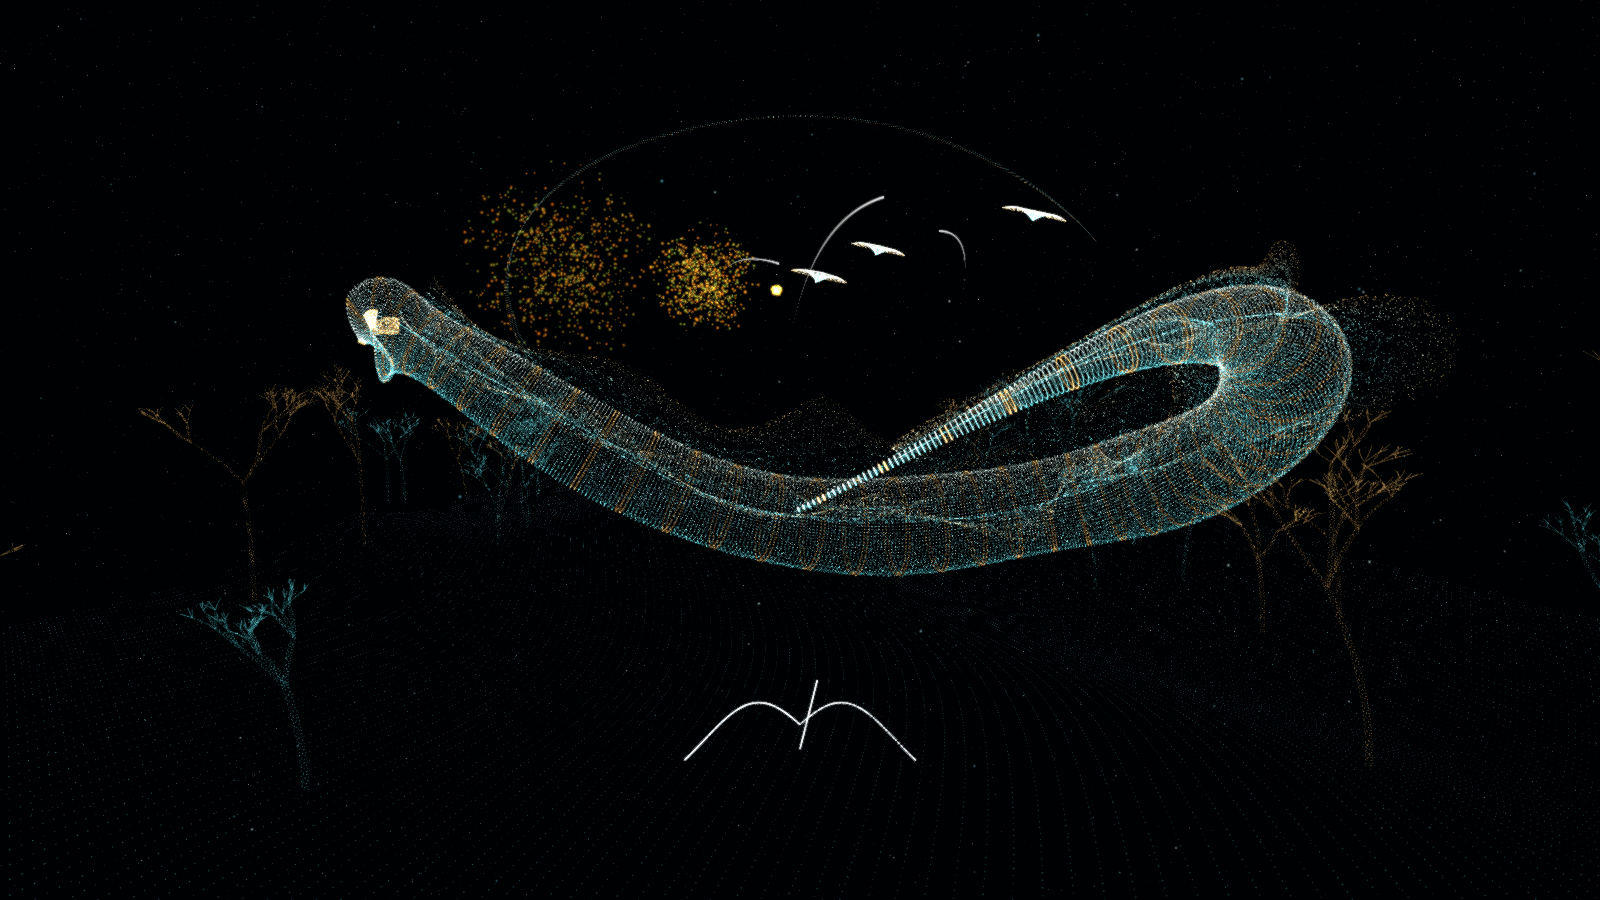
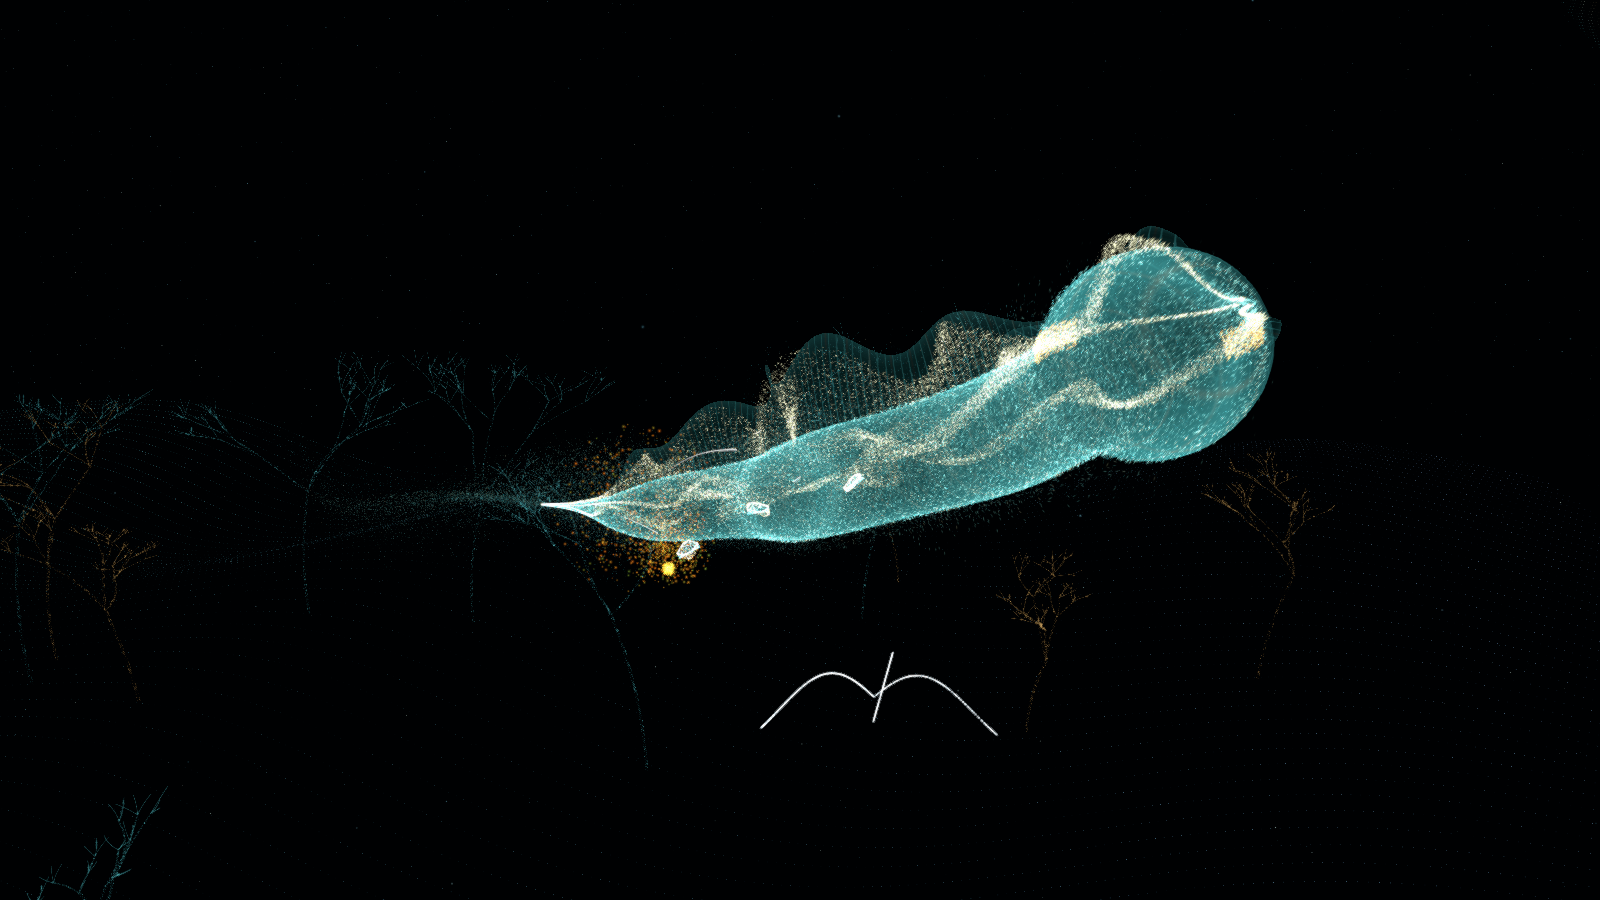
自由飛行による追跡戦の実機検証と操作・設計記録を追加
通常操作と同じ飛行APIと画面座標ロックで海蛇を追跡する自動検証へ変更。移動量、向き保持、急旋回カメラ、背景座標不変、射程と保持ロック、GPUシミュレーションを検査し、消滅後の暗い画面は戦闘中とは別の判定で確認する。

Unity 6000.3.13f1のWindows実機で全編クリア、1365.89mの飛行、340発全命中、ボス240点、音楽予約誤差0.000001ms未満、例外0を確認。最終カメラ補正後の短時間検証も合格。実画像、操作方法、専用Compute Shader採用理由、検証の未保証範囲を記録した。

diff --git a/Liminal/Assets/Liminal/Runtime/RuntimeProof.cs b/Liminal/Assets/Liminal/Runtime/RuntimeProof.cs
@@ -25,6 +25,9 @@ namespace Liminal
         bool pausePassed;
         readonly List<float> litFractions=new();
         readonly List<float> renderAndReadbackMs=new();
+        bool spatialPassed;
+        float flightDistance;
+        Vector3 lastPlayerPosition;
         public void Initialize(Experience value)
         {
             experience=value;
@@ -35,6 +38,8 @@ namespace Liminal
             preview=Array.IndexOf(args,"--preview")>=0;
             wallStart=Time.realtimeSinceStartup;
             Application.logMessageReceived+=OnLog;
+            spatialPassed=VerifySpatialContracts();
+            lastPlayerPosition=experience.Flight.Position;
         }
         void OnLog(string message,string stack,LogType type)
         {
@@ -45,6 +50,9 @@ namespace Liminal
             if(!experience||!experience.Ready||finishing) return;
             float t=(float)experience.Music.Time;
             var e=experience.Combat;
+            if(!experience.Music.Paused) Pilot(t,Mathf.Min(Time.unscaledDeltaTime,0.05f));
+            flightDistance+=Vector3.Distance(lastPlayerPosition,experience.Flight.Position);
+            lastPlayerPosition=experience.Flight.Position;
             if(!sections.Contains(e.Section)) sections.Add(e.Section);
             if(t>5) frames.Add(Time.unscaledDeltaTime);
             if(!pausedTest && t>2) {
@@ -77,7 +85,7 @@ namespace Liminal
         {
             yield return new WaitForSecondsRealtime(0.1f);
             File.WriteAllText(Path.Combine(directory,"preview.json"),JsonUtility.ToJson(new Preview {
-                errors=errors.ToArray(),hits=experience.Combat.Hits,damage=experience.Combat.BossDamage,
+                errors=errors.ToArray(),spatialPassed=spatialPassed,flightDistance=flightDistance,hits=experience.Combat.Hits,damage=experience.Combat.BossDamage,
                 particles=experience.World.ParticleCount,renderAndReadbackMs=renderAndReadbackMs.ToArray()},true));
             Application.Quit(errors.Count==0?0:2);
         }
@@ -89,7 +97,8 @@ namespace Liminal
             bool victory=e.Won;
             int hits=e.Hits,damage=e.BossDamage,fired=e.Fired,locks=e.MaxLocks,points=e.Points;
             double impactDelay=e.MaxImpactDelay,gridError=experience.Music.MaxGridError;
-            int damageTaken=e.DamageTaken;
+            int damageTaken=e.DamageTaken,simulationSteps=experience.World.Serpent.SimulationSteps;
+            int missed=e.MissedScheduledHits,cancelled=e.CancelledAfterFinish;
             experience.Restart();
             bool restart=e.Points==0&&e.Hits==0&&!e.Ended&&!e.HasPending&&e.Locks.Count==0&&experience.Music.Time<0.05;
             for(int i=0;i<8;i++) e.ReceiveDamage();
@@ -97,10 +106,11 @@ namespace Liminal
             bool failure=e.Lost&&!e.Won;
             experience.Restart();
             yield return new WaitForSecondsRealtime(0.1f);
-            bool rendered=litFractions.Count>=4&&litFractions.All(x=>x>0.002f&&x<0.7f);
-            bool passed=victory&&restart&&failure&&pausePassed&&rendered&&damage==240&&locks==8&&errors.Count==0&&gridError<0.00001&&impactDelay<0.1;
+            bool rendered=litFractions.Count>=5&&litFractions.Take(4).All(x=>x>0.002f&&x<0.7f);
+            bool dissolved=litFractions.Count>=5&&litFractions[4]>0.0001f&&litFractions[4]<litFractions.Take(4).Min()*0.5f;
+            bool passed=victory&&restart&&failure&&pausePassed&&rendered&&dissolved&&spatialPassed&&flightDistance>300&&simulationSteps>500&&damage==240&&locks==8&&missed==0&&fired==hits+cancelled&&errors.Count==0&&gridError<0.00001&&impactDelay<0.1;
             var report=new Report {
-                passed=passed,won=victory,restart=restart,failure=failure,pause=pausePassed,rendered=rendered,litFractions=litFractions.ToArray(),
+                passed=passed,won=victory,restart=restart,failure=failure,pause=pausePassed,rendered=rendered,dissolved=dissolved,spatialPassed=spatialPassed,flightDistance=flightDistance,simulationSteps=simulationSteps,missedScheduledHits=missed,cancelledAfterFinish=cancelled,litFractions=litFractions.ToArray(),
                 hits=hits,fired=fired,bossDamage=damage,maxLocks=locks,score=points,damageTaken=damageTaken,
                 scheduledGridErrorMs=gridError*1000,maxVisualImpactDelayMs=impactDelay*1000,
                 logicUpdatesPerSecond=frames.Count/frames.Sum(),renderAndReadbackMs=renderAndReadbackMs.ToArray(),
@@ -129,13 +139,70 @@ namespace Liminal
             File.WriteAllBytes(Path.Combine(directory,name),image.EncodeToPNG());
             Destroy(image);rt.Release();Destroy(rt);
         }
-        [Serializable] sealed class Preview {public int hits,damage,particles;public float[] renderAndReadbackMs;public string[] errors;}
+        void Pilot(float song,float dt)
+        {
+            var flight=experience.Flight;
+            Vector3 focus=Anatomy.Focus(song);
+            Vector3 desired=focus+new Vector3(Mathf.Cos(song*.025f)*52,15,Mathf.Sin(song*.025f)*52);
+            Vector3 toward=focus-flight.Position;
+            Vector3 forward=flight.View.transform.forward;
+            float yaw=Mathf.Atan2(forward.x,forward.z)*Mathf.Rad2Deg;
+            float pitch=Mathf.Asin(Mathf.Clamp(forward.y,-1,1))*Mathf.Rad2Deg;
+            float targetYaw=Mathf.Atan2(toward.x,toward.z)*Mathf.Rad2Deg;
+            float targetPitch=Mathf.Atan2(toward.y,new Vector2(toward.x,toward.z).magnitude)*Mathf.Rad2Deg;
+            float blend=1-Mathf.Exp(-dt*3);
+            Vector2 look=new(Mathf.DeltaAngle(yaw,targetYaw)*blend/2.1f,(targetPitch-pitch)*blend/1.7f);
+            Vector3 motion=Vector3.ClampMagnitude((desired-flight.Position)/24,1);
+            Vector3 local=new(Vector3.Dot(motion,flight.View.transform.right),motion.y,Vector3.Dot(motion,flight.View.transform.forward));
+            flight.Step(song,dt,local,look,Vector3.Distance(desired,flight.Position)>90);
+        }
+        bool VerifySpatialContracts()
+        {
+            var flight=experience.Flight;
+            Vector3 worldOrigin=experience.World.transform.position;
+            Vector3 start=Anatomy.Focus(0);
+            flight.SetPose(start,Quaternion.identity);
+            for(int i=0;i<360;i++) flight.Step(0,1f/60,Vector3.forward,Vector2.zero,true);
+            bool freedom=Vector3.Distance(start,flight.Position)>220;
+            bool cameraBehind=Vector3.Dot(flight.Position-flight.View.transform.position,flight.View.transform.forward)>5;
+            bool stableWorld=Vector3.Distance(worldOrigin,experience.World.transform.position)<0.001f;
+            flight.SetPose(start,Quaternion.identity);
+            flight.Step(0,1f/60,Vector3.zero,new Vector2(180/2.1f,0),false);
+            bool turnCamera=Vector3.Dot(flight.Position-flight.View.transform.position,flight.View.transform.forward)>=6.99f;
+            flight.SetPose(start,Quaternion.identity);
+            flight.Step(0,1f/60,Vector3.zero,new Vector2(130/2.1f,30/1.7f),false);
+            Quaternion orientation=flight.View.transform.rotation;
+            for(int i=0;i<300;i++) flight.Step(0,1f/60,Vector3.zero,Vector2.zero,false);
+            bool heading=Quaternion.Angle(orientation,flight.View.transform.rotation)<.1f;
+            Vector3 min=Vector3.one*10000,max=-min;
+            for(int i=0;i<=180;i++) {Vector3 p=Anatomy.Head(i);min=Vector3.Min(min,p);max=Vector3.Max(max,p);}
+            Vector3 travel=max-min;
+            bool roaming=travel.x>160&&travel.y>40&&travel.z>190;
+            flight.SetPose(start,Quaternion.identity);
+            var e=experience.Combat;
+            var fixture=new LockTarget {id=-1,hp=2,kind=TargetKind.Ray,born=0,origin=start+Vector3.forward*45,position=start+Vector3.forward*45};
+            fixture.visual=PointCloud.Place("Range proof",experience.World.NodeMesh,experience.World.NodeMaterial,transform);
+            fixture.visual.transform.position=fixture.position;e.Targets.Add(fixture);
+            Vector3 screen=flight.View.WorldToScreenPoint(fixture.position);
+            e.AcquireAt((Vector2)screen+Vector2.right*e.LockRadiusPixels*.82f);
+            bool generous=e.Locks.Contains(fixture);
+            e.AbandonLocks();flight.SetPose(start-Vector3.forward*100,Quaternion.identity);
+            bool range=!e.CanAcquire(fixture);
+            flight.SetPose(start,Quaternion.identity);e.Acquire(fixture);
+            flight.SetPose(start-Vector3.forward*100,Quaternion.identity);e.Release();
+            bool retained=e.HasPending;
+            experience.Restart();
+            bool result=freedom&&cameraBehind&&turnCamera&&stableWorld&&heading&&roaming&&generous&&range&&retained;
+            if(!result) errors.Add($"Spatial proof: freedom={freedom}, cameraBehind={cameraBehind}, turnCamera={turnCamera}, stableWorld={stableWorld}, heading={heading}, roaming={roaming}, radius={generous}, range={range}, retained={retained}");
+            return result;
+        }
+        [Serializable] sealed class Preview {public int hits,damage,particles;public bool spatialPassed;public float flightDistance;public float[] renderAndReadbackMs;public string[] errors;}
         [Serializable] sealed class Report
         {
-            public bool passed,won,restart,failure,pause,rendered;
-            public int hits,fired,bossDamage,maxLocks,score,damageTaken,particles;
+            public bool passed,won,restart,failure,pause,rendered,dissolved,spatialPassed;
+            public int hits,fired,bossDamage,maxLocks,score,damageTaken,particles,simulationSteps,missedScheduledHits,cancelledAfterFinish;
             public double scheduledGridErrorMs,maxVisualImpactDelayMs;
-            public float logicUpdatesPerSecond;
+            public float logicUpdatesPerSecond,flightDistance;
             public float[] litFractions,renderAndReadbackMs;
             public int[] sections;
             public string[] errors;

diff --git a/Liminal/DESIGN.md b/Liminal/DESIGN.md
@@ -19,8 +19,9 @@ Unity project is a historical prototype, not a dependency of this project.
 ## Decisions
 
 The music and its event map are composed together. There is no BPM detector or
-free-running beat coroutine. GPU vertex deformation animates explicitly authored
-particle anatomy; URP HDR bloom integrates light. Target identity and queued
+free-running beat coroutine. Persistent GPU particle state follows a shared spine;
+a translucent membrane integrates the surface into a continuous volume.
+Target identity and queued
 damage are independent of the renderer. No old scenes, code, VFX graphs or sound
 assets are referenced. Original artwork and score only; this is an interpretation
 of Area X's audiovisual design, not a distribution of the original game's assets.
@@ -28,6 +29,27 @@ of Area X's audiovisual design, not a distribution of the original game's assets
 ## Boundaries
 
 Score / MusicTransport own musical time. Encounter owns target lifecycle and
-combat. ParticleWorld owns visual geometry. Flight owns camera and movement.
+combat. Anatomy owns the independent world-space head route and delayed spine.
+ParticleWorld owns the environment; LeviathanVfx owns GPU buffers, particle lifetime,
+curl advection and translucent surface rendering. Flight owns a separate moving rig,
+never the root transform containing the environment. It preserves world orientation.
 Hud draws interface only. RuntimeProof drives the same combat API as human input.
 Editor/Production creates the reproducible scene, rendering assets and player.
+
+## Free-Flight Revision
+
+- Cruise 24 m/s, boost 52 m/s, persistent yaw/pitch, camera-relative translation.
+- Soft outer arena at about 350 m, no small positional clamps or auto-recentering.
+- The head travels roughly 200 m across the arena. Every vertebra samples the head
+  route at an earlier musical time; turns propagate through the complete creature.
+- New locks require 105 m range and front/frustum visibility. Existing locks and
+  queued hits survive a range change. Acquisition radius is 9% of screen height,
+  clamped to 64-110 pixels, and is represented in the reticle.
+- 257 CPU spine samples are uploaded once per simulation step. Both target organs
+  and GPU geometry use this anatomy. 262,144 persistent particles form four layers:
+  skin flow, fins, interior illumination, and detached world-space wake.
+- The custom compute approach keeps target anatomy and VFX on the same data contract.
+  This implementation does not claim to contain a VFX Graph asset. Unity describes
+  this URP compute-buffer rendering approach in its [compute shader recipe](https://learn.unity.com/tutorial/urp-recipe-compute-shaders).
+- Runtime proof flies around and pursues the creature instead of keeping a static
+  camera. It checks movement, range, retained locks, musical hits and full completion.
